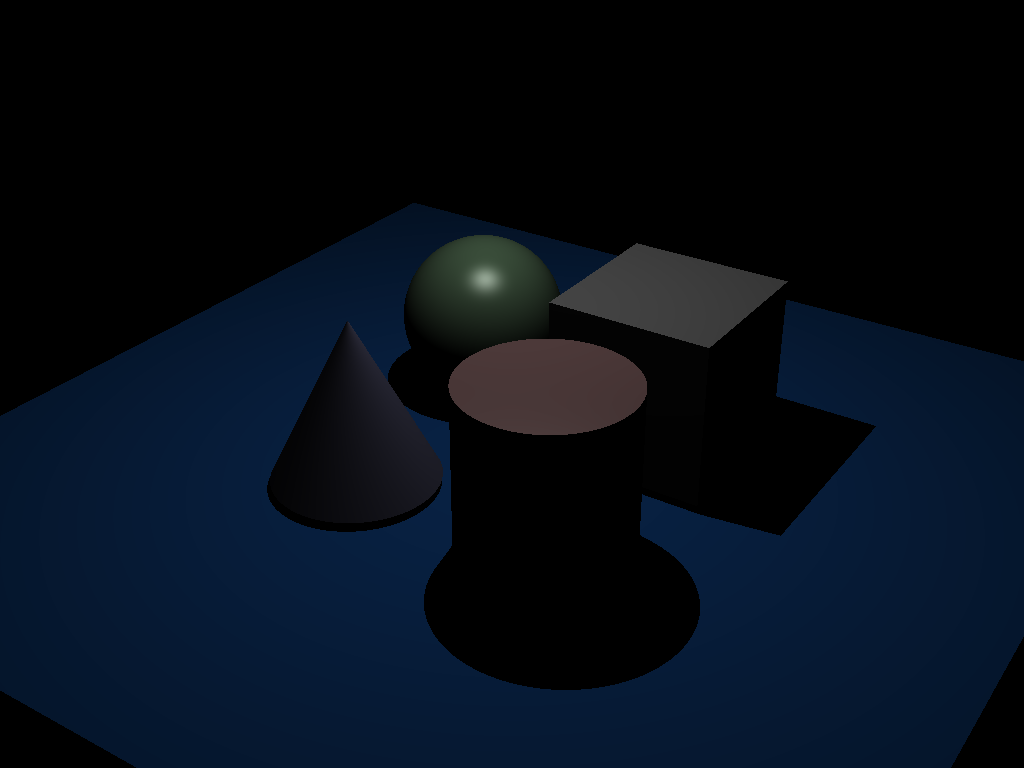
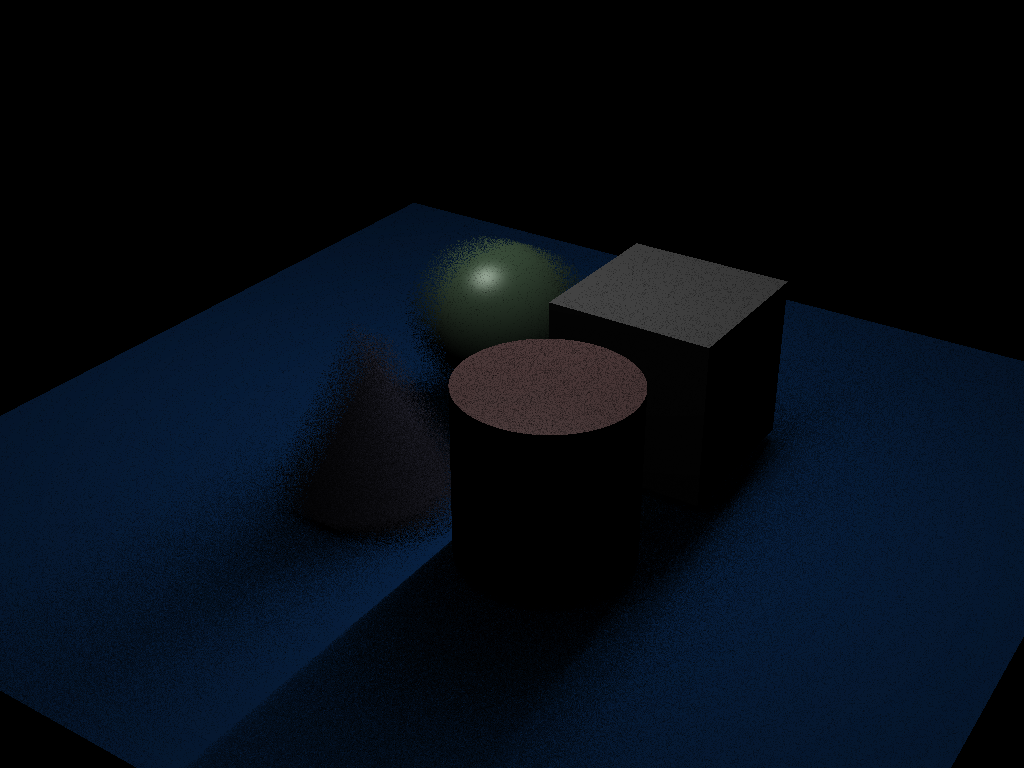
faster soft shadows

Changed region(s): [[0.125, 0.3125, 0.875, 1.0], [0.5312, 0.3438, 0.5625, 0.375]]

diff --git a/src/utils/phongillumination.cpp b/src/utils/phongillumination.cpp
@@ -45,7 +45,7 @@ glm::vec4 PhongIllumination::phongLogic(glm::vec4  position,
                                         int recur,
                                         float occlusion) {
 
-    bool isSoftShadows = false;
+    bool isSoftShadows = true;
 
     normal = glm::normalize(normal);
     glm::vec3 iRay = {incidentRay[0], incidentRay[1], incidentRay[2]};
@@ -278,7 +278,7 @@ float PhongIllumination::calculateShadowFactor(SceneLightData light, glm::vec4 p
 
     float shadowFactor = float(unshadowedCount) / float(sampleCount);
 
-    float bias = 0.5f;
+    float bias = 2.0f;
 
     return glm::pow(shadowFactor, bias);
 }
